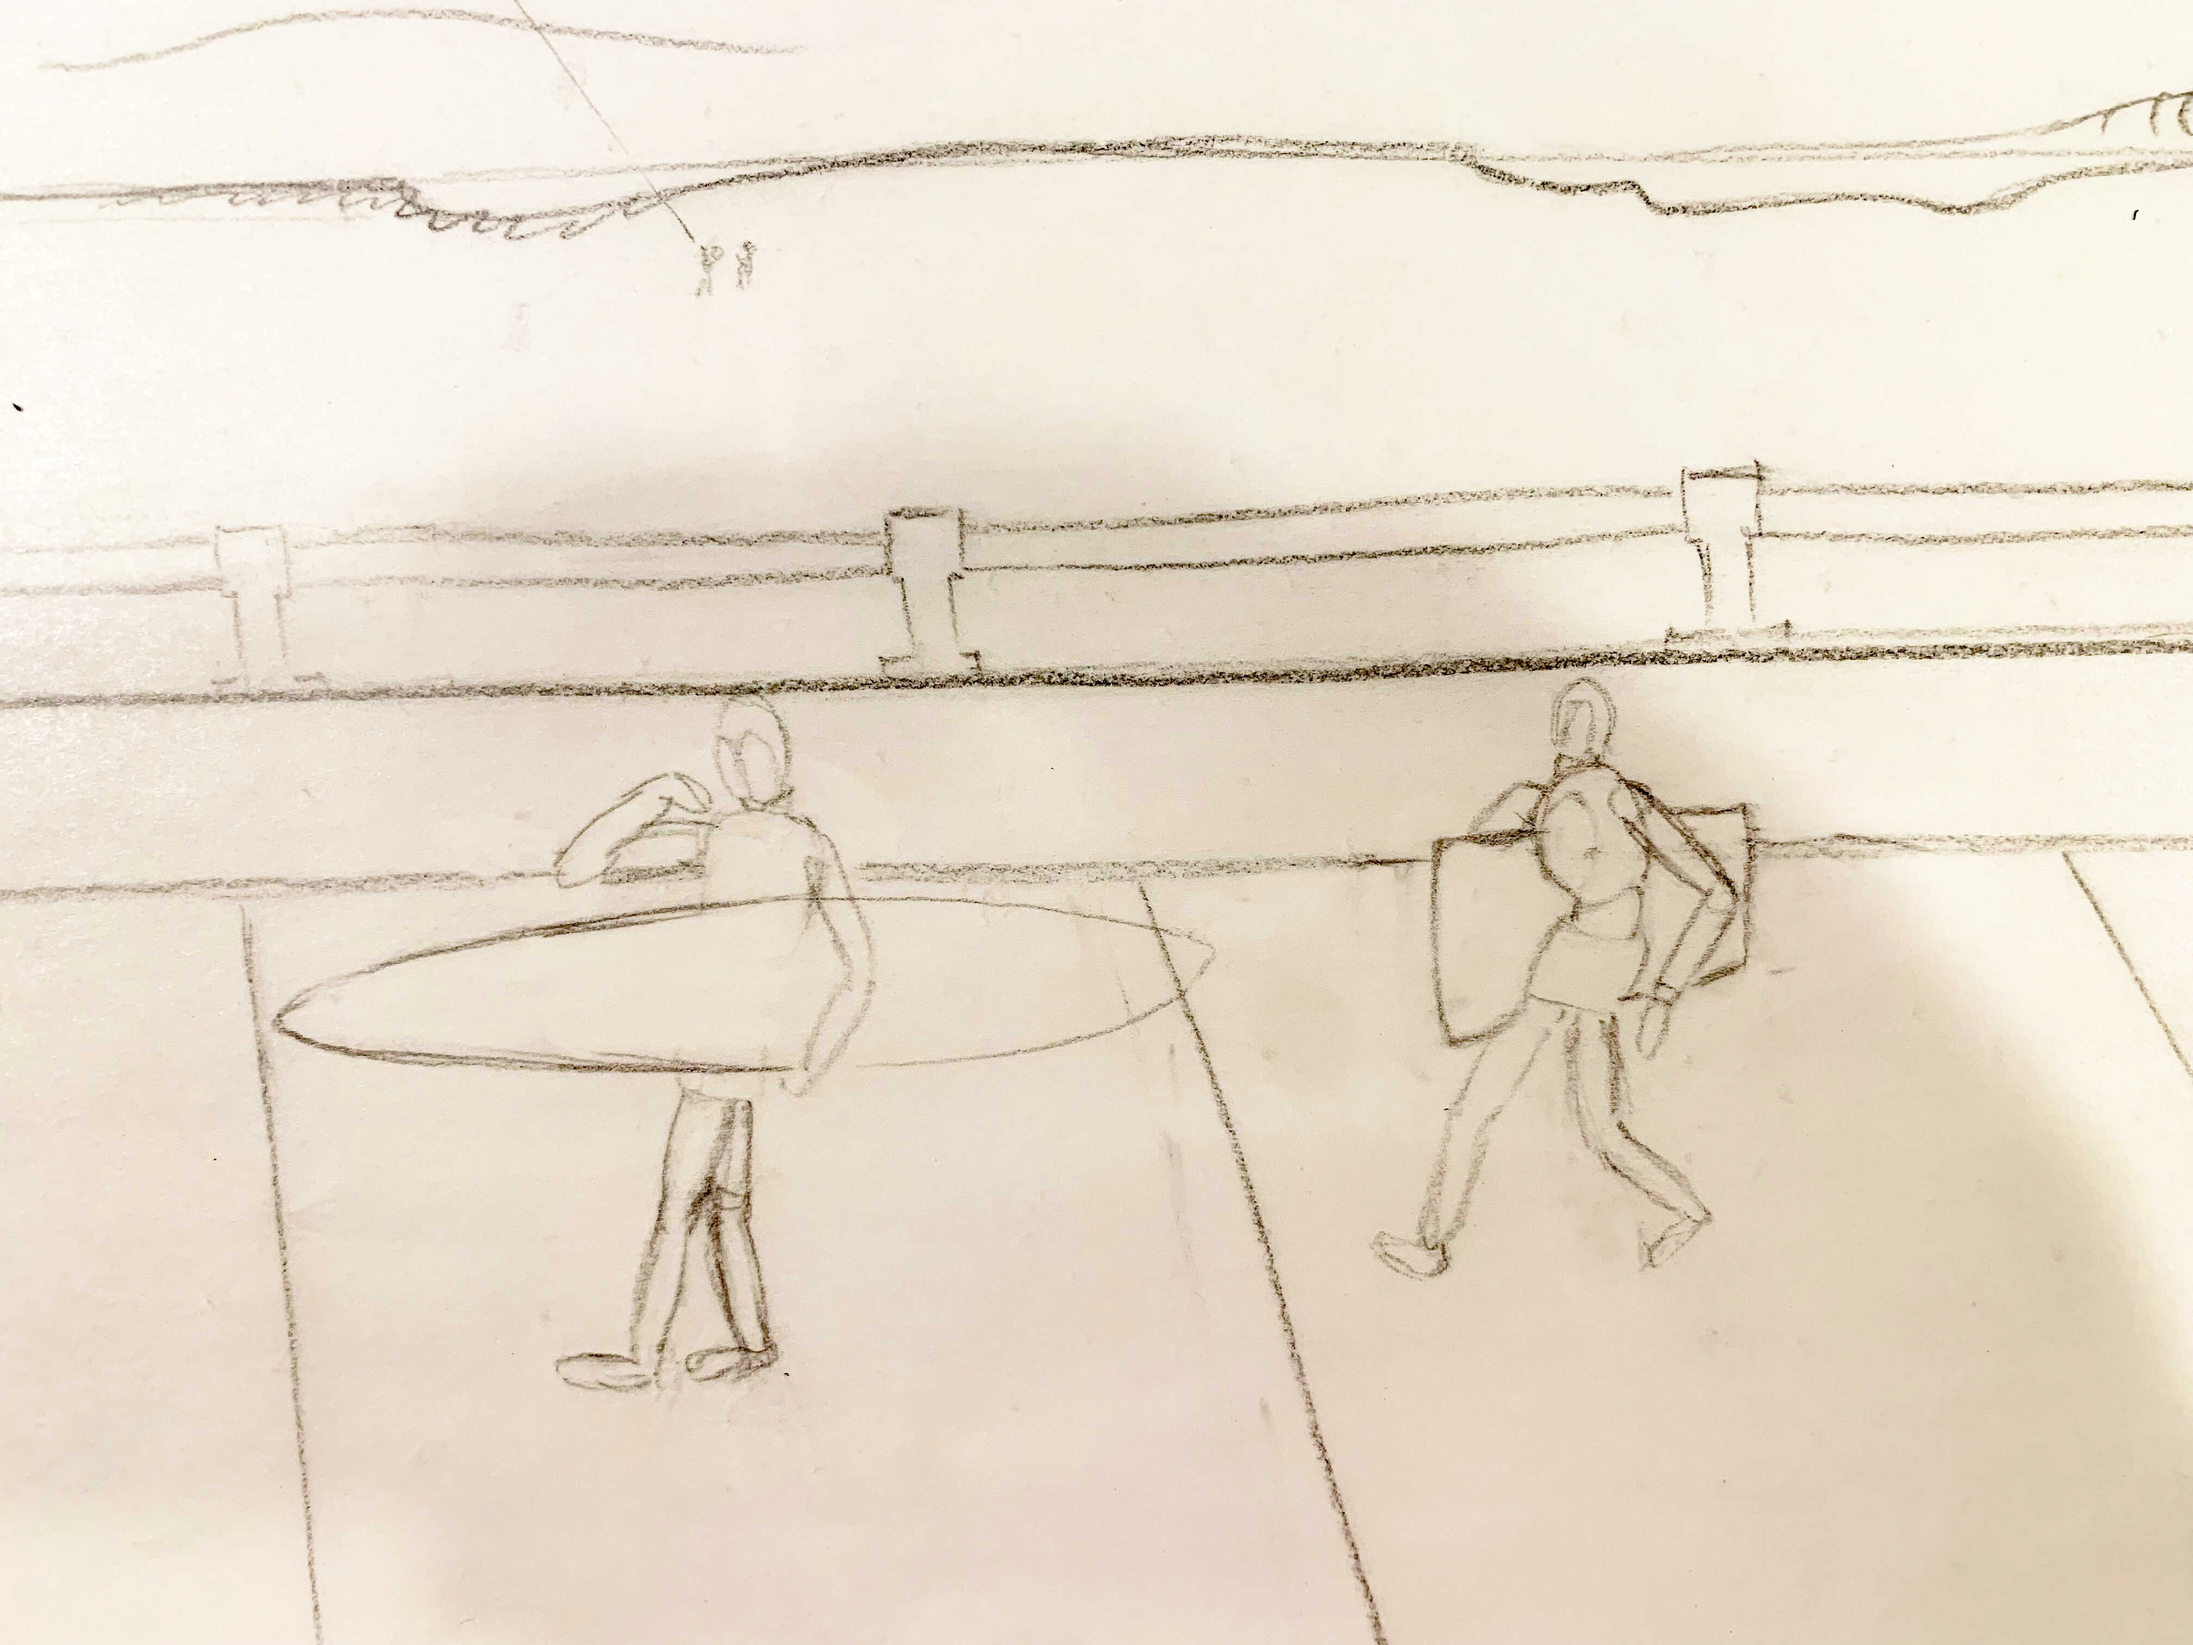
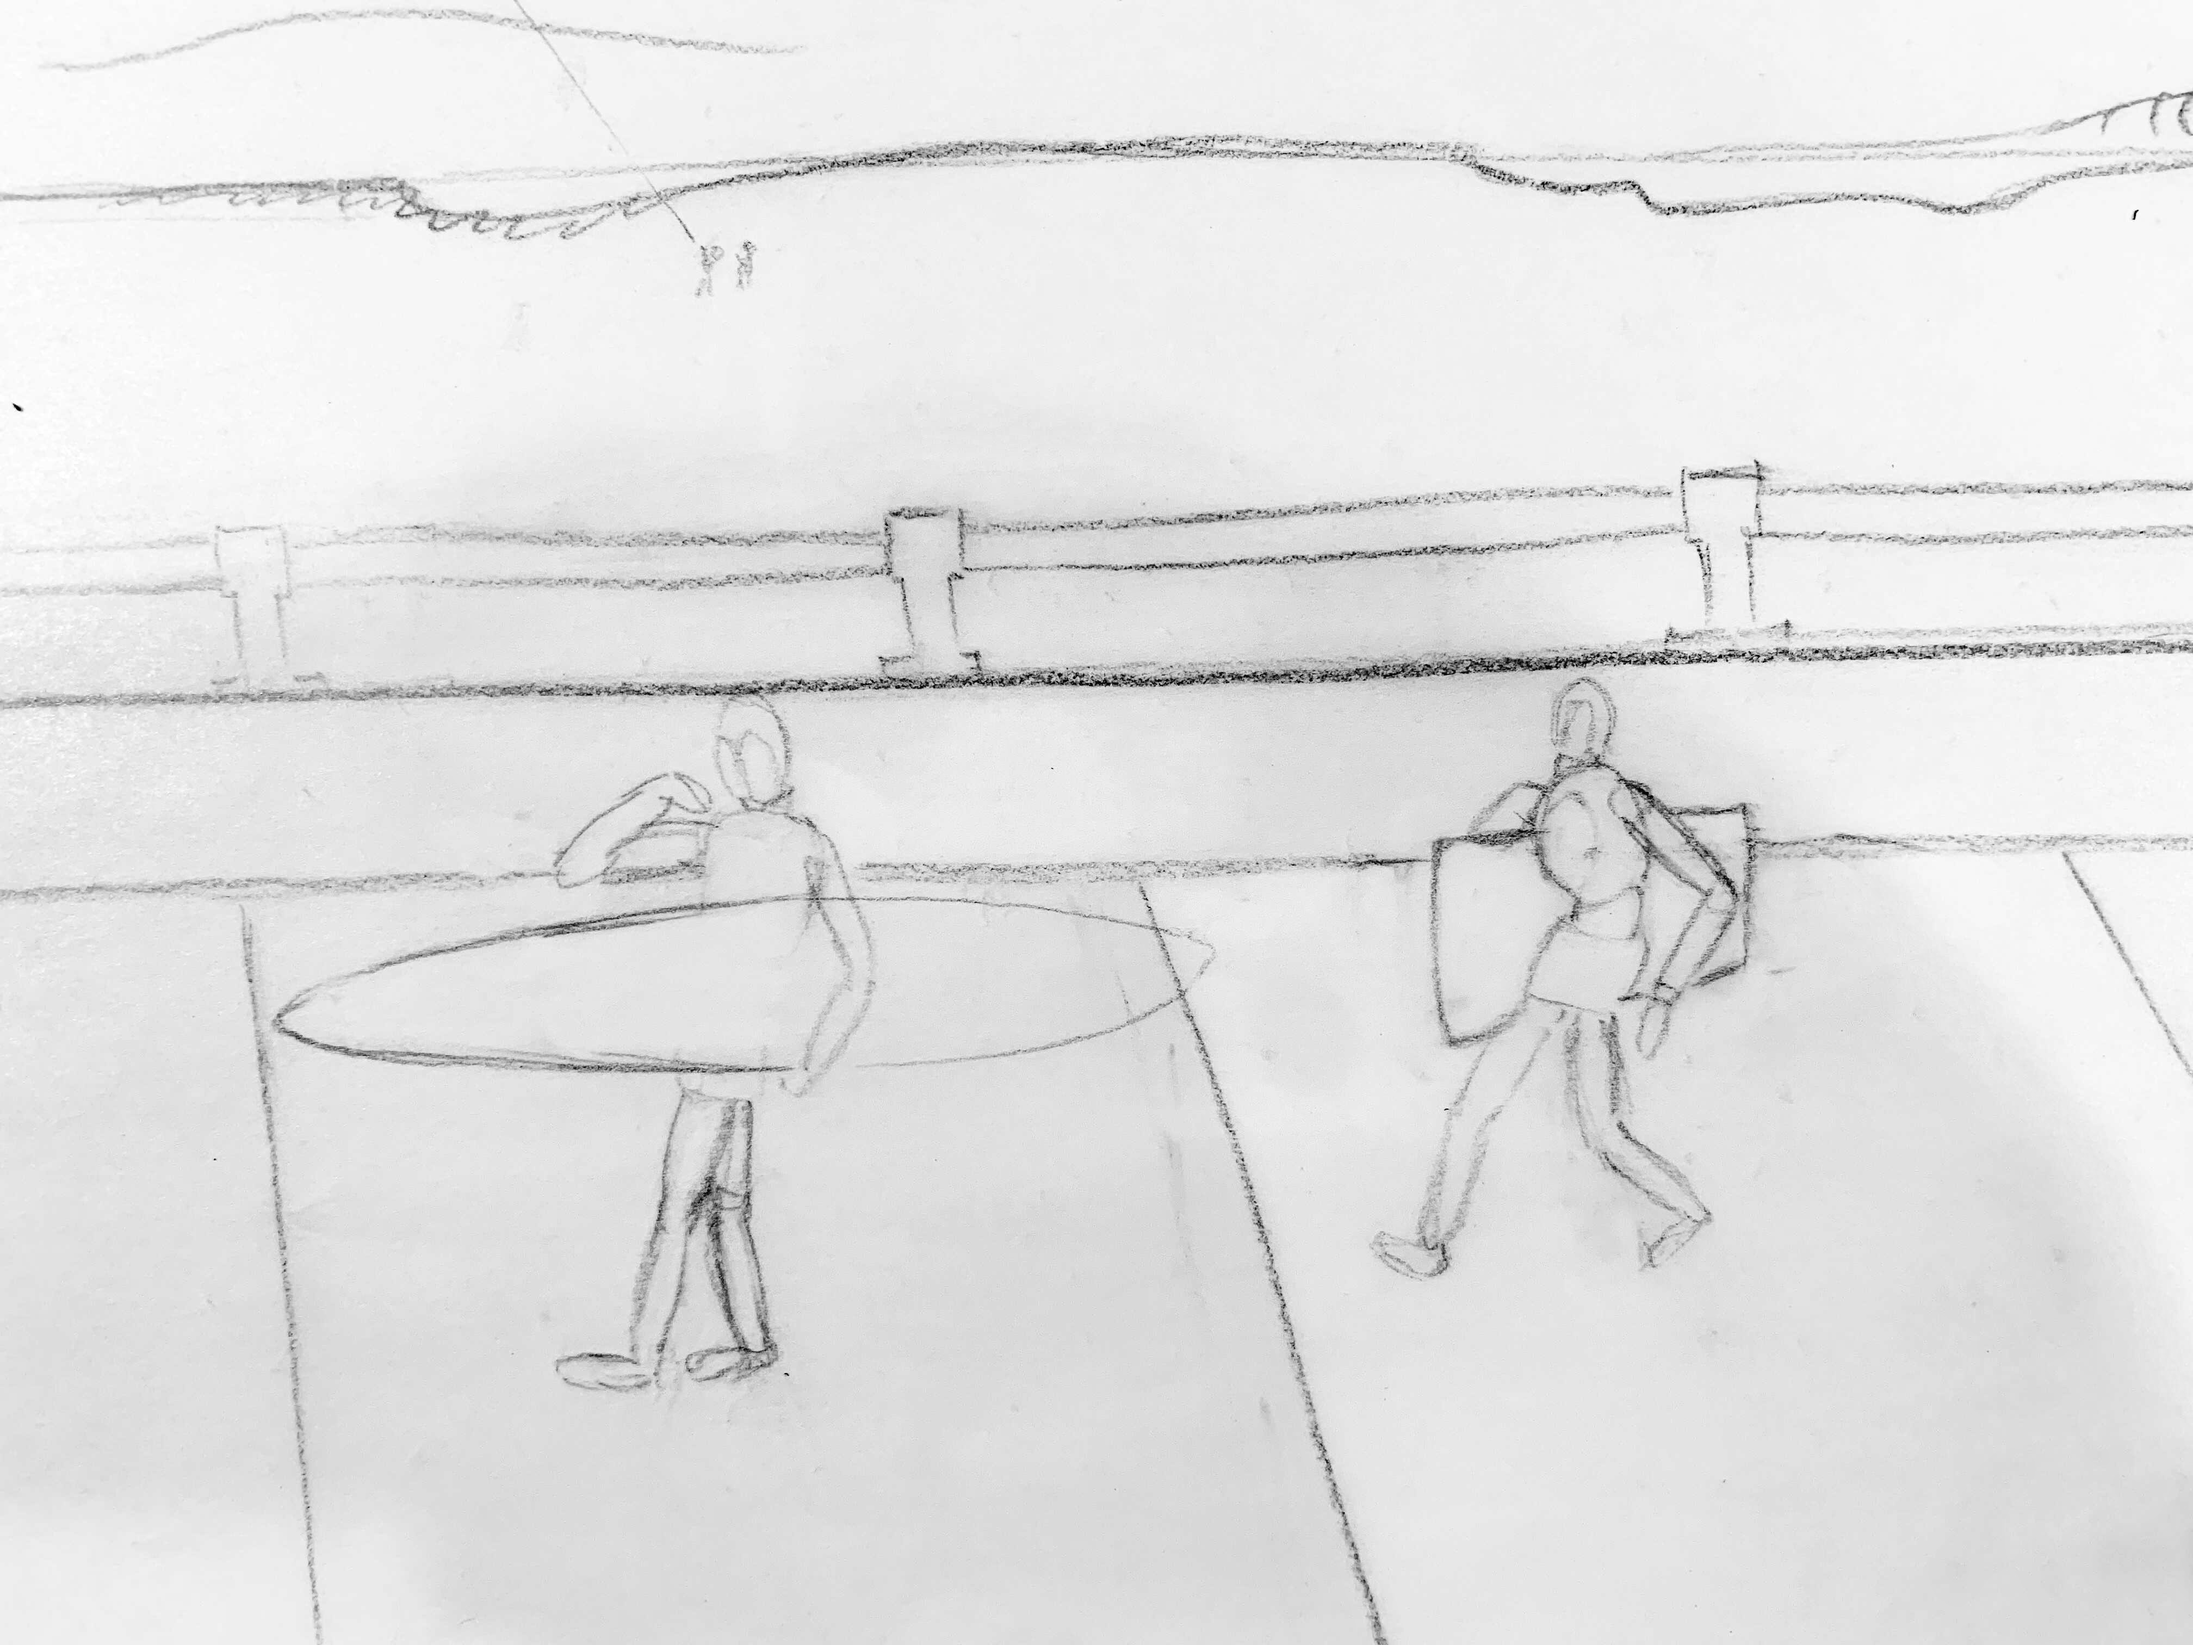
improve beach boardwalk pics

diff --git a/README.md b/README.md
@@ -57,9 +57,6 @@ Before the site is published to GitHub pages, the tests must pass.
 
 ## TODO
 
-**Content**
-- Get some better pics of the Beach Boardwalk
-
 **Performance/Accessibility**
 - Study reports from the following for more recommendations:
   - Google's PageSpeed Insights
